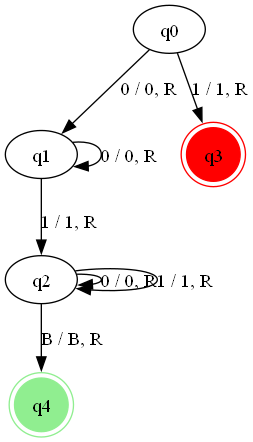
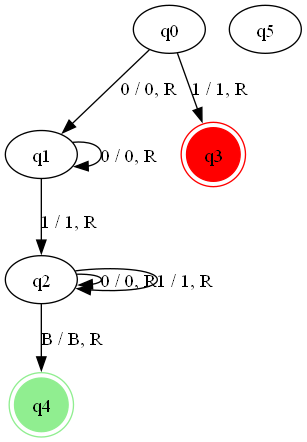
feat: fix and all diagrams

diff --git a/Proyecto4/main.py b/Proyecto4/main.py
@@ -35,7 +35,7 @@ with st.container():
             st.write(f"<span style='font-size:20px; font-style:italic;'>{pasos}</span>", unsafe_allow_html=True)
             st.subheader('Digrama de la Maquina de Turing')
             maquina.graph()
-            st.image('../graphs/maquina_turing.png')
+            st.image('./graphs/maquina_turing.png')
 
             txt_content = f"CONFIGURACIONES MAQUINA DE TURING\nCadena: {lector.cadena}\nConfiguraciones:\n" + pasos_show
             st.download_button(
